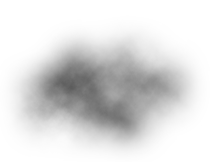
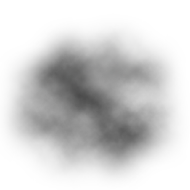
particle updates and bug fixes

diff --git a/Content/NPCs/CycloneBoss/Cyclone.cs b/Content/NPCs/CycloneBoss/Cyclone.cs
@@ -21,9 +21,8 @@ namespace TheBattleCats.Content.NPCs.CycloneBoss
         
         private enum ActionState
         {
-            Idle,
             Reset,
-            
+            Idle,
             Attack1,
             Attack2,
             Attack3,
@@ -38,7 +37,7 @@ namespace TheBattleCats.Content.NPCs.CycloneBoss
         public ref float AITimer => ref NPC.ai[1];
         public ref float AttackTimer => ref NPC.ai[2];
         public ref float CloneTimer => ref NPC.ai[3];
-        private ActionState PreviousState = ActionState.Reset;
+        
 
         
 
@@ -132,7 +131,8 @@ namespace TheBattleCats.Content.NPCs.CycloneBoss
 
 
         private float LifeRatio;
-
+        
+        private ActionState PreviousState = ActionState.Reset;
         public override void AI()
         {
         
@@ -208,7 +208,7 @@ namespace TheBattleCats.Content.NPCs.CycloneBoss
             }
         }
 
-        private ActionState previousAttack = ActionState.Idle;
+        private ActionState previousAttack = ActionState.Reset;
 
         
 
@@ -784,16 +784,29 @@ private void EnhancedAttack1()
         if (CloneTimer % 121 == 61 && Main.netMode != NetmodeID.MultiplayerClient)
         {
             float cloneAngle = Main.rand.NextFloat(0, MathHelper.TwoPi);
-            Vector2 clonePos = player.Center + new Vector2(300f, 0f).RotatedBy(cloneAngle);
+            float radius = 300f;
+
+            Vector2 clonePos = player.Center + radius * new Vector2(
+                (float)Math.Cos(cloneAngle),
+                (float)Math.Sin(cloneAngle)
+            );
+
             clonePosX = clonePos.X;
             clonePosY = clonePos.Y;
             CreateTeleportTelegraph(clonePos);
             NPC.netUpdate = true;
         }
 
-        if (CloneTimer % 121 == 1 && CloneTimer > 2 && Main.netMode != NetmodeID.MultiplayerClient)
+        if (CloneTimer % 121 == 91 && CloneTimer > 2 && Main.netMode != NetmodeID.MultiplayerClient)
         {
-            int cloneIndex = NPC.NewNPC(NPC.GetSource_FromAI(), (int)clonePosX, (int)clonePosY, ModContent.NPCType<CycloneClone>());
+            int cloneIndex = NPC.NewNPC(
+                NPC.GetSource_FromAI(),
+                (int)clonePosX,
+                (int)clonePosY,
+                ModContent.NPCType<CycloneClone>()
+            );
+
+            Main.npc[cloneIndex].Center = new Vector2(clonePosX, clonePosY); //center the boss 
             Main.npc[cloneIndex].ai[1] = 1f;
             Main.npc[cloneIndex].netUpdate = true;
             SoundEngine.PlaySound(CycloneRoarDrag, NPC.Center);
@@ -841,14 +854,9 @@ private void EnhancedAttack1()
 
 public static void CreateTeleportTelegraph(Vector2 teleportPosition, float cloudOpacity = 1f)
 {
-    Color fireColor = Main.rand.NextBool() ? Color.Purple : Color.Lime;
-    CloudParticle noxiousCloud = new(teleportPosition, Main.rand.NextVector2Circular(6f, 6f), fireColor * cloudOpacity, Color.DarkGray, 120, Main.rand.NextFloat(2f, 2.4f));
+    CloudParticle noxiousCloud = new(teleportPosition, Vector2.Zero, Color.White * cloudOpacity, Color.DarkGray, 120, Main.rand.NextFloat(1.4f, 1.8f));
     ParticleHandler.SpawnParticle(noxiousCloud);
 
-    Dust fire = Dust.NewDustPerfect(teleportPosition + Main.rand.NextVector2Square(-50f, 50f), DustID.CursedTorch);
-    fire.velocity = -Vector2.UnitY.RotateRandom(0.5f) * Main.rand.NextFloat(1f, 5f);
-    fire.scale *= 1.66f;
-    fire.noGravity = true;
 }
 
 private void SpawnRainVolley(Player player)
@@ -1344,8 +1352,8 @@ public class CycloneClone : ModNPC
 
     public override void SetDefaults()
     {
-        NPC.width         = 140;
-        NPC.height        = 140;
+        NPC.width         = 120;
+        NPC.height        = 120;
         NPC.damage        = 30;
         NPC.defense       = 0;
         NPC.lifeMax       = 1;
@@ -1470,7 +1478,10 @@ private void DoAttack1()
     Player player = Main.player[NPC.target];
     AITimer++;
 
-
+    if (AITimer == 25f)
+    {
+        DashDirection = Vector2.Normalize(player.Center - NPC.Center);
+    }
     // Frames 1–30: wait, fade in
     if (AITimer <= 30f)
     {
@@ -1485,7 +1496,6 @@ private void DoAttack1()
     // Frame 61: lock in dash direction
     if (!DashLaunched)
     {
-        DashDirection = Vector2.Normalize(player.Center - NPC.Center);
         DashLaunched  = true;
     }
 
